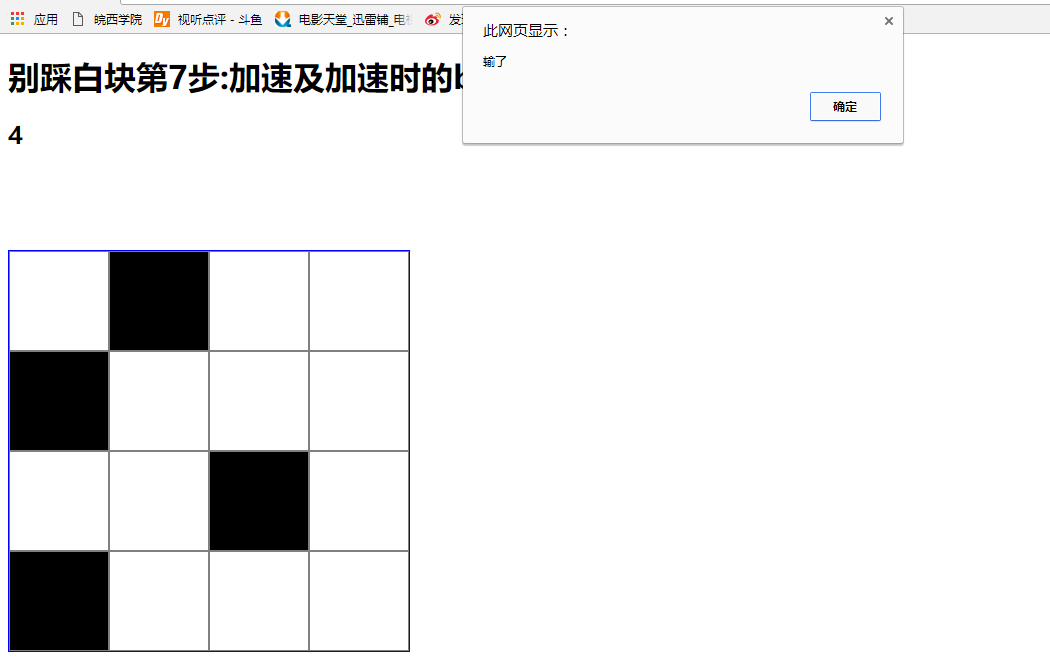
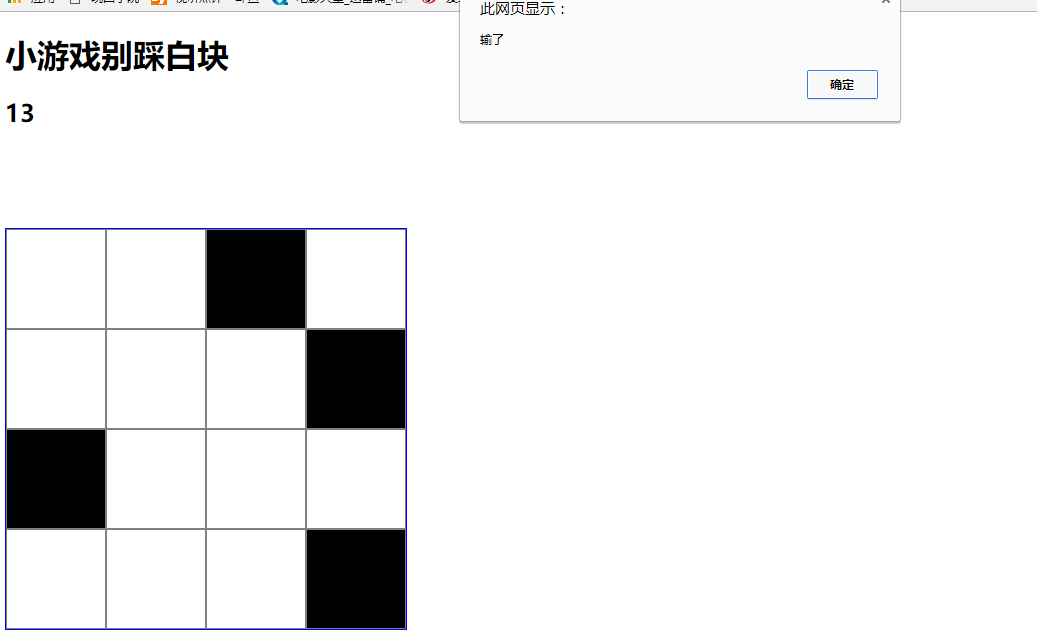
test

diff --git a/biecaibaikuai/white.html b/biecaibaikuai/white.html
@@ -1,4 +1,4 @@
-<!DOCTYPE html>
+<!DOCTYPE html>
 <html lang="en">
 <head>
     <meta charset="UTF-8">
@@ -38,7 +38,7 @@
 
 </style>
 <body>
-    <h1>别踩白块第7步:加速及加速时的bug处理</h1>
+    <h1>小游戏别踩白块</h1>
     <h2 id="sc">0</h2>
     <div id="cont">
         <div id="main"></div>
